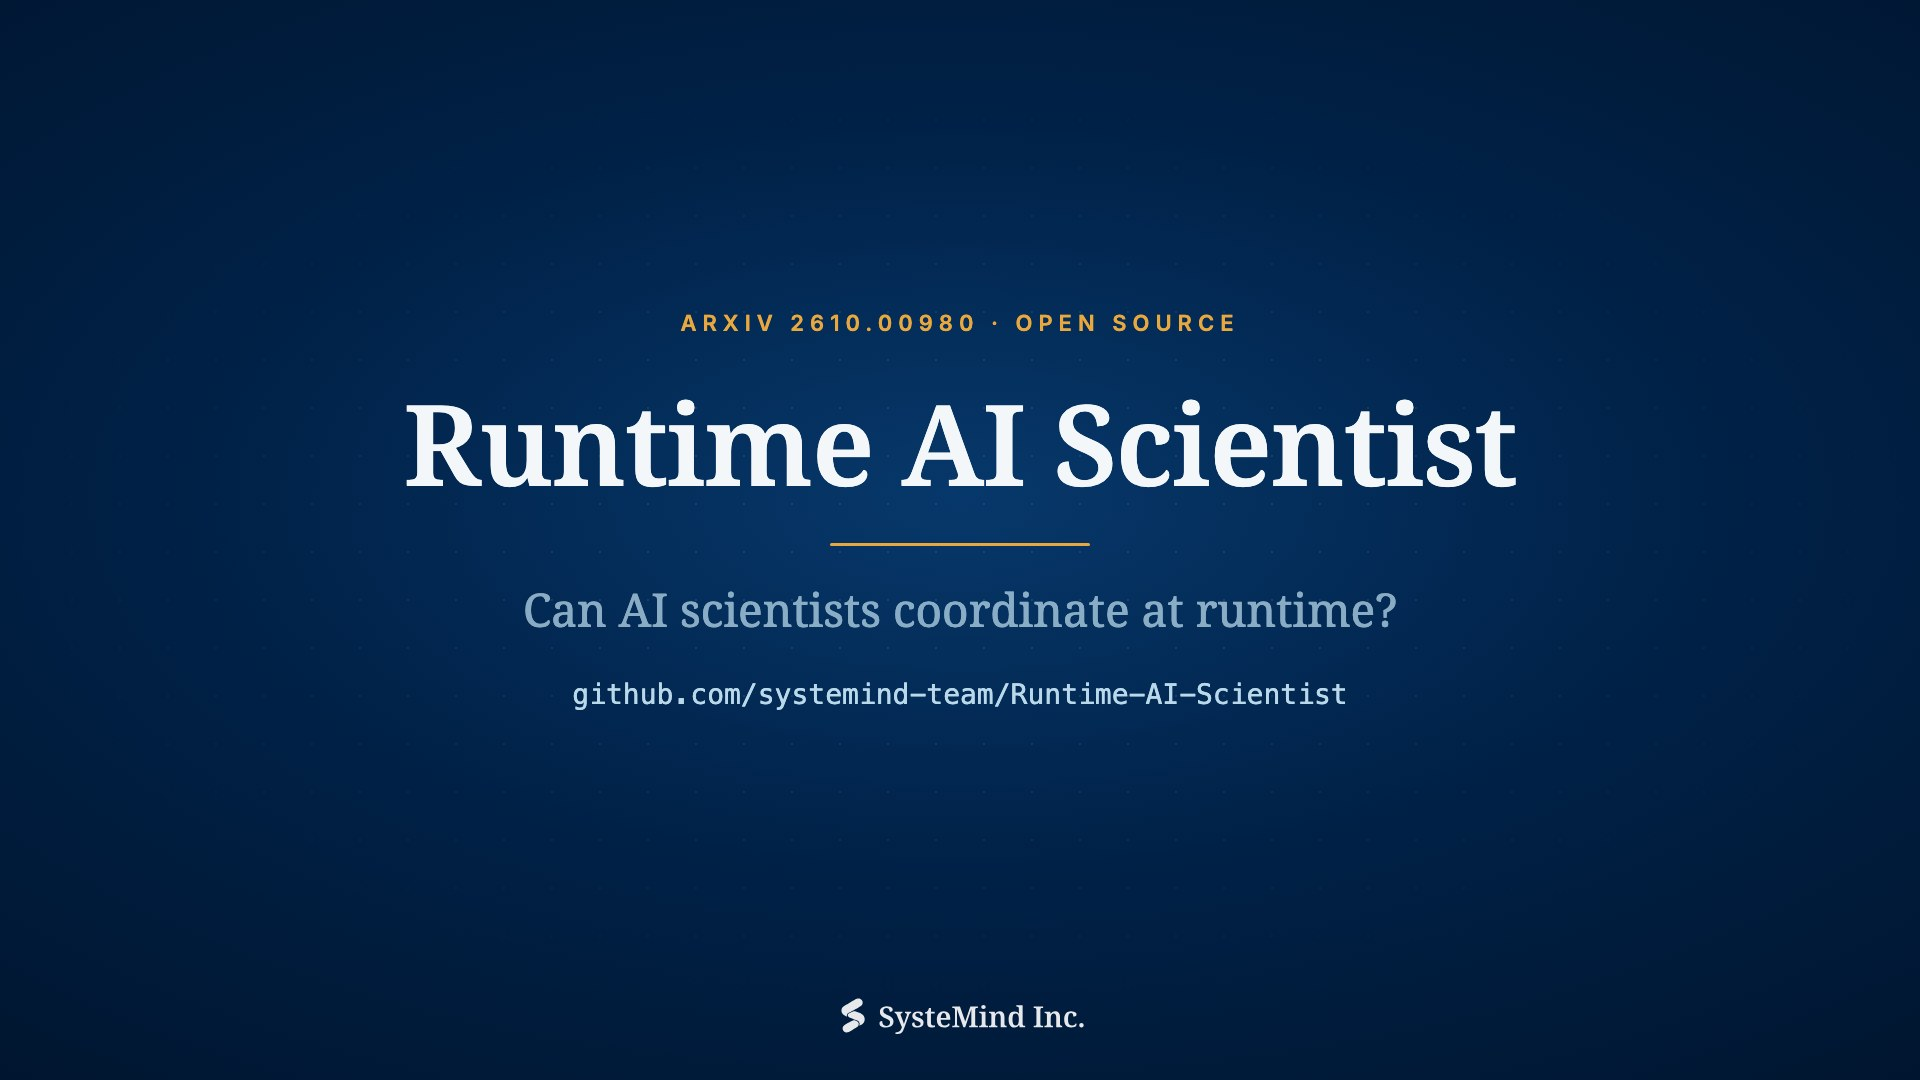
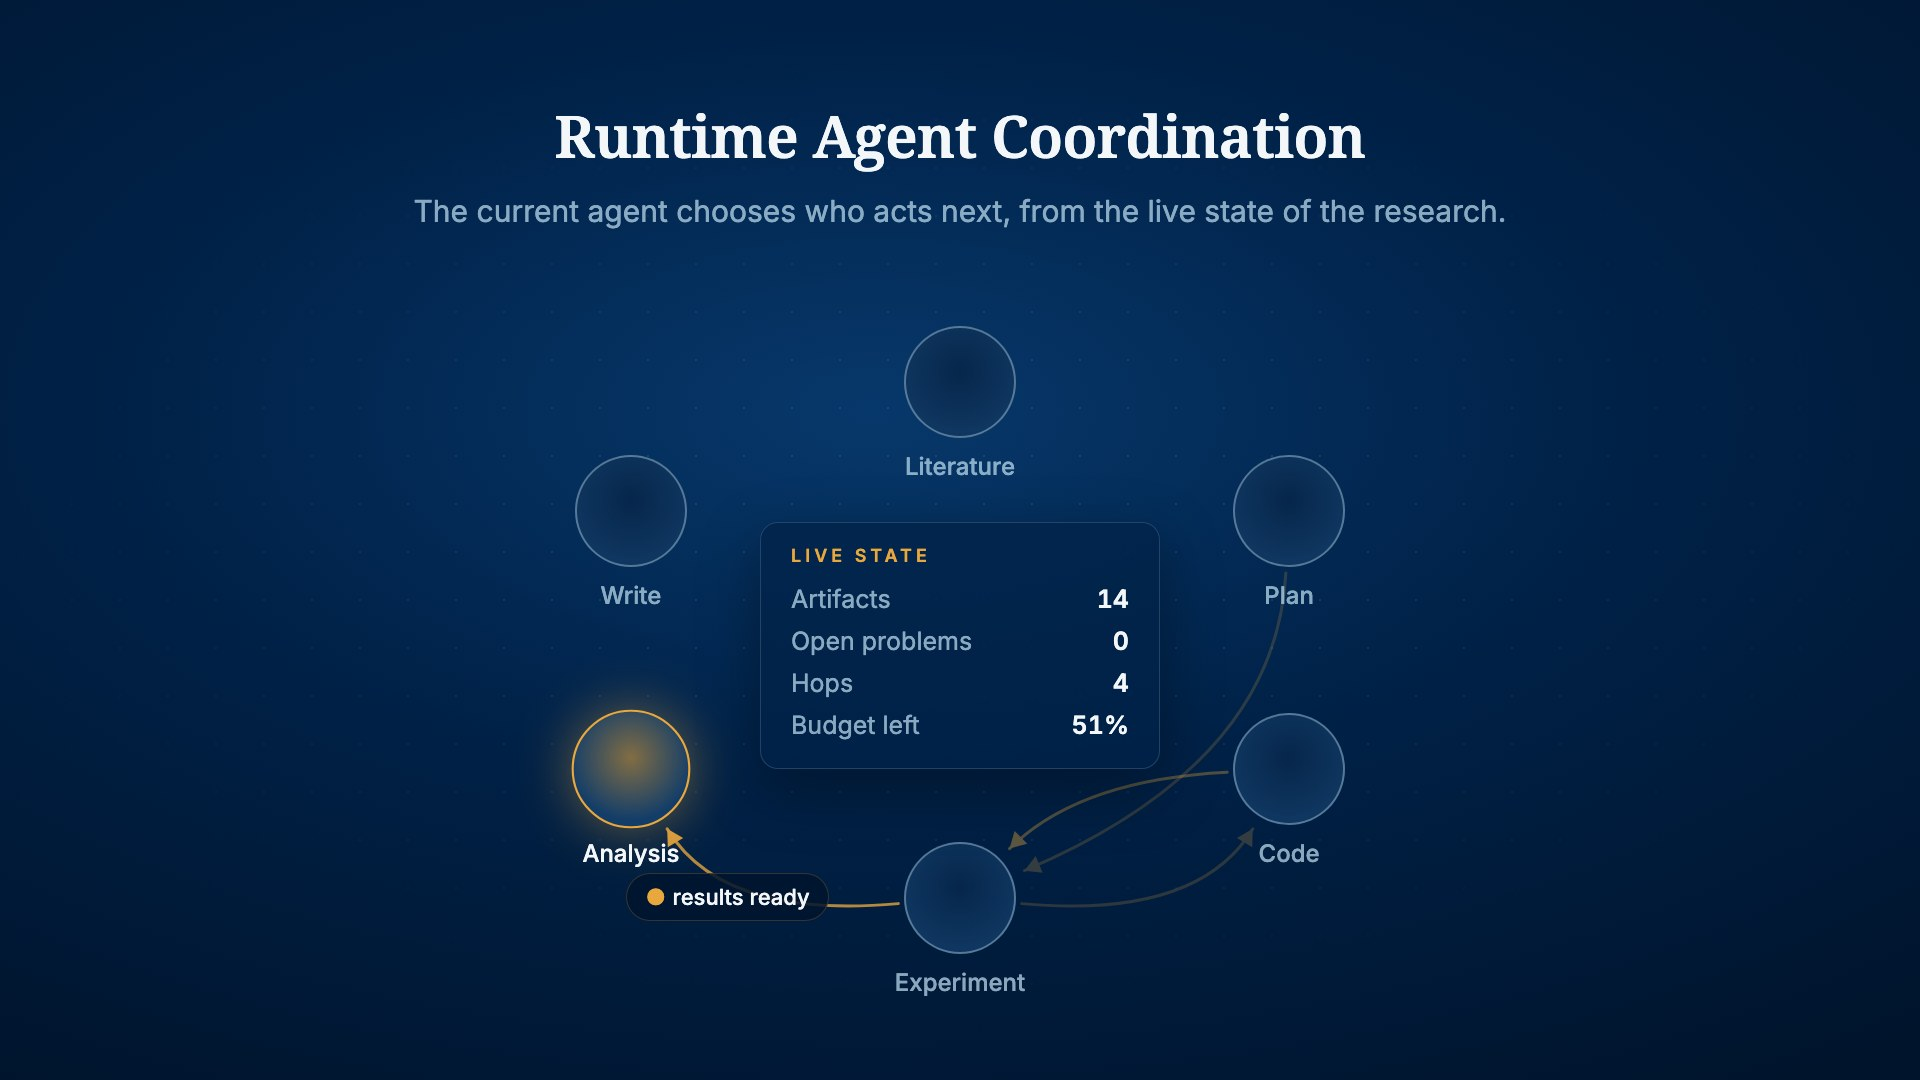
Use a runtime-selection frame as the video poster; scope the rerun claim to ResearchClawBench

diff --git a/index.html b/index.html
@@ -250,7 +250,7 @@ footer img { height: 26px; margin: 0 auto 12px; }
 
   <section id="get-involved">
     <h2><span class="num">03</span>Run more experiments with us</h2>
-    <p>Everything in the paper can be rerun from the open-source integration: one shared N0–R3 policy, isolated Docker images for each host, revision-pinned upstreams, and an external scorer that alone sees the benchmark targets. The most useful next experiments are the ones a single-seed study leaves open.</p>
+    <p>The paper's ResearchClawBench experiments can be rerun from the open-source integration: one shared N0–R3 policy, isolated Docker images for each host, revision-pinned upstreams, and an external scorer that alone sees the benchmark targets. The most useful next experiments are the ones a single-seed study leaves open.</p>
     <div class="cards">
       <div class="card"><h3>More seeds</h3><p>Repeat N0 and R2 on the paper's tasks with new seeds. Does runtime selection keep its lead?</p></div>
       <div class="card"><h3>More tasks and domains</h3><p>ResearchClawBench has far more tasks than the paper ran. Find where runtime selection helps and where it hurts.</p></div>
